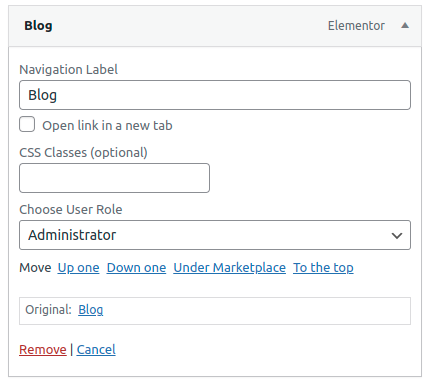
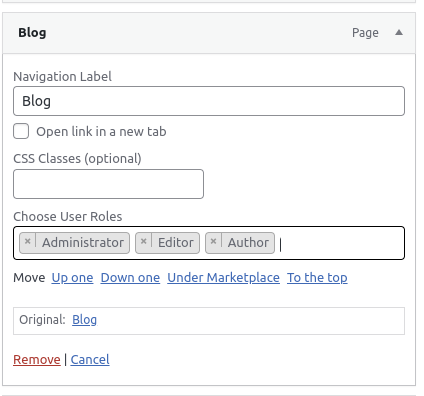
Update Screenshot

Changed region(s): [[0.0, 0.0, 1.0, 1.0]]

diff --git a/menu-by-user-roles.php b/menu-by-user-roles.php
@@ -47,7 +47,7 @@ function menuby_user_roles_wp_menu_item_user_role_section( $item_id ) {
 
 	echo '<p class="field-wp-user-roles description description-wide">';
 	echo '<label for="edit-menu-item-user-role-' . esc_attr( $item_id ) . '">';
-	echo 'Choose User Role <br/>';
+	echo 'Choose User Roles <br/>';
 	echo '<select style="width: 100%" multiple="multiple" class="widefat menuby-user-roles-dropdown" name="menuby_user_roles_menu_item_roles[' . esc_attr( $item_id ) . '][]" id="wp-mbur-menu-item-roles-' . esc_attr( $item_id ) . '">';
 
 	// Predefined options.

diff --git a/README.md b/README.md
@@ -10,7 +10,7 @@ Welcome to the official GitHub repository for "Menu By User Roles," the ultimate
 
 ## Installation
 
-1. Download the plugin as a ZIP file.
+1. Download the plugin as a ZIP file from [Here](https://wordpress.org/plugins/menu-by-user-roles/).
 2. Log in to your WordPress admin panel.
 3. Navigate to `Plugins` > `Add New`.
 4. Click the `Upload Plugin` button and select the ZIP file you downloaded.
